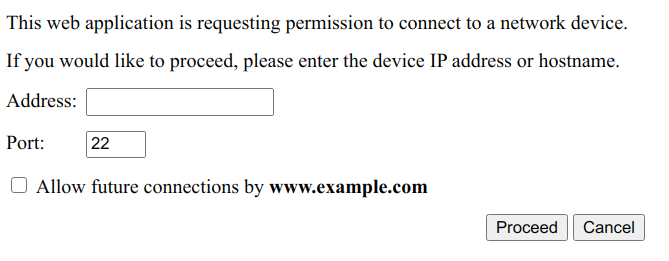
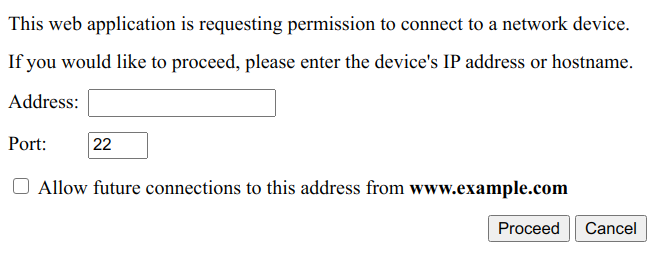
mention hardware damage

diff --git a/docs/explainer.md b/docs/explainer.md
@@ -103,13 +103,13 @@ A permissions policy will control access, preventing third party use by default.
 
 ### Threat
 
-An attacker might configure DNS entries to point to private addresses in the user's intranet, tricking the user into providing access to resources behind a firewall.
+An attacker might configure DNS entries to point to private addresses in the user's intranet, tricking the user into providing access to resources behind a firewall. Such access might be used to extract information or damage hardware.
 
 #### Mitigation
 
 Hostnames that resolve to [non-public addresses](https://wicg.github.io/cors-rfc1918/#framework) would be rejected.
 
-Thus connections to a loopback address (`127.0.0.0/8`, `::1/128`), a private network address (`10.0.0.0/8`, `172.16.0.0/12`, `192.168.0.0/16`, `fc00::/7`) or a link-local address (`169.254.0.0/16`, `fe80::/10`) will fail unless a raw IP address is entered.
+Thus connections to a loopback address (`127.0.0.0/8`, `::1/128`), a private network address (`10.0.0.0/8`, `172.16.0.0/12`, `192.168.0.0/16`, `fc00::/7`) or a link-local address (`169.254.0.0/16`, `fe80::/10`) will fail unless a raw IP address is entered by the user.
 
 
 
@@ -119,7 +119,7 @@ Use of the API may violate organization policies, that control which protocols m
 
 #### Mitigation
 
-User agents may restrict use of the API when enterprise software policies are in effect.
+User agents may restrict use of the API when enterprise software policies are in effect. For example, user agents might by default not allow use of this API unless the user has permission to install new binaries.
 
 
 
